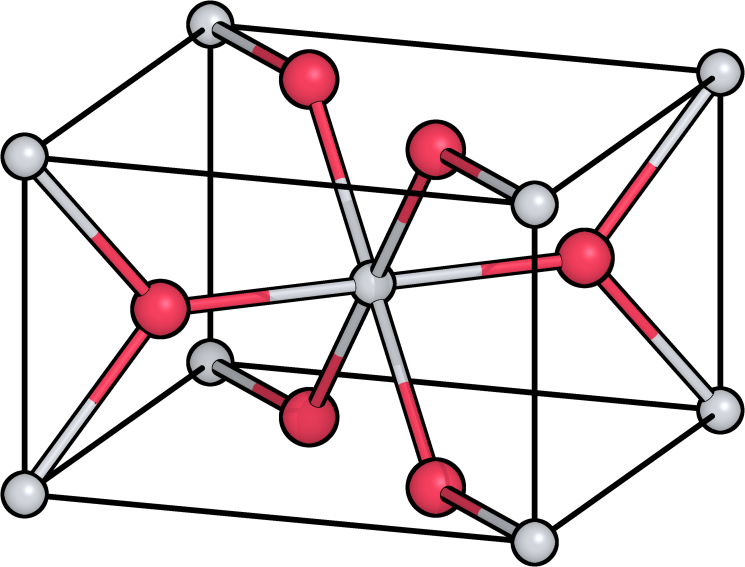
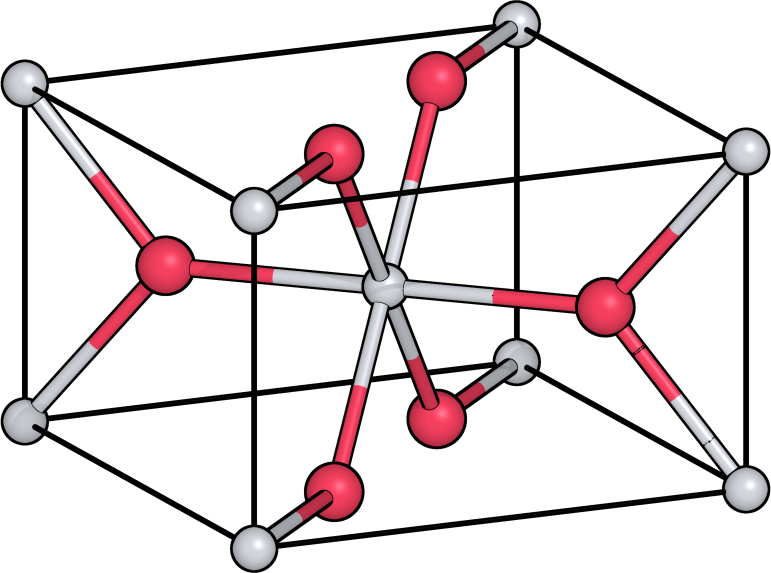
molecules atualizado

diff --git a/braunmol/show/cell.py b/braunmol/show/cell.py
@@ -6,19 +6,19 @@ Gabriel Braun, 2026
 
 import tempfile
 from dataclasses import dataclass
-from itertools import combinations
+from itertools import combinations, product
 from pathlib import Path
 
 import numpy as np
 from pymatgen.analysis.bond_valence import BVAnalyzer
-from pymatgen.analysis.local_env import (
-    CrystalNN,
-    MinimumVIRENN,
-    ValenceIonicRadiusEvaluator,
-)
-from pymatgen.core.periodic_table import Element
+from pymatgen.analysis.graphs import StructureGraph
+from pymatgen.analysis.local_env import CrystalNN, MinimumVIRENN
 from pymatgen.core.structure import Molecule, Structure
 from pymol import cgo, cmd
+
+# =============================================================================
+# Registry (lattice + repeats)
+# =============================================================================
 
 
 @dataclass(slots=True)
@@ -43,9 +43,6 @@ class CellRegistry:
 
 
 def _cell_registry(_self) -> CellRegistry:
-    """
-    Singleton associado ao objeto cmd do PyMOL.
-    """
     reg = getattr(_self, "_cell_registry", None)
     if reg is None:
         reg = CellRegistry()
@@ -53,36 +50,9 @@ def _cell_registry(_self) -> CellRegistry:
     return reg
 
 
-def get_pb_frac_coords(frac_coords):
-    """
-    Retorna: coords fracionais no range [0,1] a partir de coords no range [0,1).
-    """
-    yield frac_coords
-
-    zero_indices = np.where(np.isclose(frac_coords, 0))[0]
-
-    for r in range(1, len(zero_indices) + 1):
-        for indices_to_flip in combinations(zero_indices, r):
-            pb_frac_coords = frac_coords.copy()
-            pb_frac_coords[list(indices_to_flip)] = 1
-            yield pb_frac_coords
-
-
-def structure_to_molecule(structure, repeats):
-    """
-    Retorna: "molécula" contendo os átomos de uma supercélula.
-    """
-    molecule = Molecule([], [])
-
-    for site in structure.make_supercell(repeats).sites:
-        for frac_coords in get_pb_frac_coords(site.frac_coords):
-            coords = structure.lattice.get_cartesian_coords(frac_coords)
-            if hasattr(molecule, "specie"):
-                molecule.append(site.specie, coords)
-            elif hasattr(molecule, "species"):
-                molecule.append(site.species, coords)
-
-    return molecule
+# =============================================================================
+# PyMOL: load_cell
+# =============================================================================
 
 
 @cmd.extend
@@ -94,54 +64,177 @@ def load_cell(
     **kwargs,
 ):
     """
-    Carrega: célula unitária (na forma de molécula) a partir de um arquivo '.cif'.
-
     >>> PyMOL> load_cell file_path [, mol_obj [, reps ]]
     """
     mol_obj = mol_obj or Path(file_path).stem
-
     repeats = np.fromstring(reps, sep="-", count=3, dtype=int)
+
     structure = Structure.from_file(file_path, check_cif=False)
 
-    # salva parâmetros relevantes para uso posterior
     reg = _cell_registry(_self)
     reg.new(mol_obj, structure.lattice, repeats)
 
-    # calcula as cargas, cria a supercélula e converte em molécula
-    structure = BVAnalyzer().get_oxi_state_decorated_structure(structure)
-    molecule = structure_to_molecule(structure, repeats)
+    # oxi-states (ajuda CrystalNN em iônico/misto)
+    try:
+        structure = BVAnalyzer().get_oxi_state_decorated_structure(structure)
+    except Exception:
+        pass
 
-    # cria um arquivo temporário e carrega no PyMOL
+    # supercélula periódica correta
+    sc = structure.copy()
+    sc.make_supercell(repeats)
+
+    # estratégia NN
+    nn = CrystalNN()
+    try:
+        nn.get_nn_info(sc, 0)
+    except Exception:
+        nn = MinimumVIRENN()
+
+    # grafo de ligações (pymatgen pronto)
+    sg = StructureGraph.with_local_env_strategy(sc, nn)
+    n = len(sc)
+
+    # ------------------------------------------------------------
+    # PB images: gera tuplas (0/1) para coordenadas ~0
+    # ------------------------------------------------------------
+    def pb_images(frac_coords: np.ndarray):
+        zeros = np.flatnonzero(np.isclose(frac_coords, 0.0))
+        if len(zeros) == 0:
+            yield (0, 0, 0)
+            return
+        for mask in product((0, 1), repeat=len(zeros)):
+            img = np.zeros(3, dtype=int)
+            img[zeros] = mask
+            yield (int(img[0]), int(img[1]), int(img[2]))
+
+    # ------------------------------------------------------------
+    # Normaliza uma ligação periódica (i -> j com jimage possivelmente negativa)
+    # para uma representação equivalente só com imagens não-negativas (0/1)
+    #
+    # shift = max(-jimage, 0)
+    # i@(shift) -- j@(jimage + shift)
+    # ------------------------------------------------------------
+    def normalize_image(jimage):
+        jx, jy, jz = (int(x) for x in jimage)
+        sx = -jx if jx < 0 else 0
+        sy = -jy if jy < 0 else 0
+        sz = -jz if jz < 0 else 0
+        return (sx, sy, sz), (jx + sx, jy + sy, jz + sz)
+
+    # ------------------------------------------------------------
+    # 1) arestas base (únicas / não-direcionadas) usando o grafo
+    #    key = (i,img_i0,j,img_j0) já normalizado p/ imagens >=0
+    # ------------------------------------------------------------
+    base_edges = set()
+    for i in range(n):
+        for cs in sg.get_connected_sites(i):
+            j = int(cs.index)
+            img_i0, img_j0 = normalize_image(cs.jimage)
+            a = (i, img_i0)
+            b = (j, img_j0)
+            if a <= b:
+                base_edges.add((i, img_i0, j, img_j0))
+            else:
+                base_edges.add((j, img_j0, i, img_i0))
+
+    # ------------------------------------------------------------
+    # 2) imagens existentes por site:
+    #    - sempre (0,0,0)
+    #    - PB images
+    #    - imagens mínimas exigidas pelas ligações base
+    # ------------------------------------------------------------
+    images = [set([(0, 0, 0)]) for _ in range(n)]
+
+    for i, site in enumerate(sc.sites):
+        images[i].update(pb_images(site.frac_coords))
+
+    for i, img_i0, j, img_j0 in base_edges:
+        images[i].add(img_i0)
+        images[j].add(img_j0)
+
+    # ------------------------------------------------------------
+    # 3) Molecule + idx_map (site, image) -> índice PyMOL (1-based)
+    # ------------------------------------------------------------
+    lattice = sc.lattice
+    species_list = []
+    coords_list = []
+    idx_map = {}
+
+    for i, site in enumerate(sc.sites):
+        specie = site.specie if hasattr(site, "specie") else site.species
+        f0 = site.frac_coords
+        for img in sorted(images[i]):
+            coords = lattice.get_cartesian_coords(f0 + np.array(img, dtype=float))
+            species_list.append(specie)
+            coords_list.append(coords)
+            idx_map[(i, img)] = len(species_list)
+
+    molecule = Molecule(species_list, coords_list)
+
+    # ------------------------------------------------------------
+    # 4) carrega no PyMOL
+    # ------------------------------------------------------------
+    try:
+        _self.delete(mol_obj)
+    except Exception:
+        pass
+
     tmp = tempfile.NamedTemporaryFile(suffix=".mol")
     molecule.to(tmp.name)
     _self.load(tmp.name, mol_obj, **kwargs)
     tmp.close()
 
-    # ajusta os raios iônicos e cargas formais
-    for i, specie in enumerate(molecule.species, 1):
+    # vdw + formal_charge (quando disponíveis)
+    for k, specie in enumerate(molecule.species, 1):
         try:
             ionic_radius = max(float(specie.ionic_radius), 1.0)
             _self.alter(
-                f"{mol_obj} and index {i}",
+                f"{mol_obj} and index {k}",
                 f"vdw={ionic_radius}; formal_charge={int(specie.oxi_state)}",
             )
         except Exception:
             continue
 
-    # ajusta as ligações
+    # ------------------------------------------------------------
+    # 5) bonds: replica as ligações base para todas as PB images
+    # ------------------------------------------------------------
     _self.unbond(mol_obj, mol_obj)
-    for (i, si), (j, sj) in combinations(enumerate(molecule.sites, 1), 2):
-        if int(si.specie.oxi_state) * int(sj.specie.oxi_state) > 0:
-            continue
 
-        try:
-            cutoff = si.specie.ionic_radius + sj.specie.ionic_radius
-            if si.distance(sj) < cutoff:
-                _self.bond(f"{mol_obj} and index {i}", f"{mol_obj} and index {j}")
-        except:
-            continue
+    bond = _self.bond
+    idx_get = idx_map.get
+    seen = set()
+
+    for i, img_i0, j, img_j0 in base_edges:
+        # replica a ligação para todas as imagens do átomo i
+        for img_i in images[i]:
+            tx = img_i[0] - img_i0[0]
+            ty = img_i[1] - img_i0[1]
+            tz = img_i[2] - img_i0[2]
+            img_j = (img_j0[0] + tx, img_j0[1] + ty, img_j0[2] + tz)
+
+            if img_j not in images[j]:
+                continue
+
+            a = idx_get((i, img_i))
+            b = idx_get((j, img_j))
+            if a is None or b is None or a == b:
+                continue
+
+            if a > b:
+                a, b = b, a
+            if (a, b) in seen:
+                continue
+            seen.add((a, b))
+
+            bond(f"{mol_obj} and index {a}", f"{mol_obj} and index {b}")
 
     _self.rebuild(mol_obj)
+
+
+# =============================================================================
+# PyMOL: add_cell
+# =============================================================================
 
 
 @cmd.extend
@@ -153,14 +246,11 @@ def add_cell(
     _self=cmd,
 ):
     """
-    Adiciona: estrutura da célula.
-
     >>> PyMOL> add_cell [ mol_obj [, cll_obj [, color [, linewidth ]]]]
     """
     mol_obj = mol_obj or _self.get_object_list()[0]
     cll_obj = cll_obj or f"{mol_obj}_cell"
 
-    # recupera os parâmetros da rede
     reg = _cell_registry(_self)
     cell_info = reg.get(mol_obj)
     lattice = cell_info.lattice

diff --git a/graphics/molecules/vsepr/PF5/PF5.tex b/graphics/molecules/vsepr/PF5/PF5.tex
@@ -1,0 +1,31 @@
+\begin{tikzpicture}[xscale=\molscale,yscale=\molscale]
+%% coordinates
+\coordinate (A3) at (-0.424,0.251);
+\coordinate (A4) at (0.000,-0.825);
+\coordinate (A6) at (0.875,0.000);
+\coordinate (A1) at (0.000,-0.000);
+\coordinate (A2) at (0.000,0.848);
+\coordinate (A5) at (-0.451,-0.267);
+
+%% nodes
+\node (A3) [ball={vdw=0.159,color=tw-cyan-400}] at (A3) {};
+%% bonds
+\bond[0.117cm]{A1}[0.092cm]{A3};
+%% nodes
+\node (A4) [ball={vdw=0.162,color=tw-cyan-400}] at (A4) {};
+%% bonds
+\bond[0.188cm]{A1}[0.152cm]{A4};
+%% nodes
+\node (A6) [ball={vdw=0.164,color=tw-cyan-400}] at (A6) {};
+\node (A1) [ball={vdw=0.201,color=tw-orange-400}] at (A1) {};
+%% bonds
+\bond[0.201cm]{A1}[0.164cm]{A6};
+\bond[0.188cm]{A1}[0.156cm]{A2};
+\bond[0.117cm]{A1}[0.098cm]{A5};
+%% nodes
+\node (A2) [ball={vdw=0.166,color=tw-cyan-400}] at (A2) {};
+%% bonds
+%% nodes
+\node (A5) [ball={vdw=0.169,color=tw-cyan-400}] at (A5) {};
+%% bonds
+\end{tikzpicture}

diff --git a/graphics/molecules/vsepr/CH4/CH4.tex b/graphics/molecules/vsepr/CH4/CH4.tex
@@ -1,0 +1,26 @@
+\begin{tikzpicture}[xscale=\molscale,yscale=\molscale]
+%% coordinates
+\coordinate (A3) at (0.484,-0.090);
+\coordinate (A5) at (-0.484,-0.090);
+\coordinate (A2) at (0.000,-0.000);
+\coordinate (A4) at (0.000,0.571);
+\coordinate (A1) at (0.000,-0.391);
+
+%% nodes
+\node (A3) [ball={vdw=0.131,color=tw-gray-300}] at (A3) {};
+\node (A5) [ball={vdw=0.131,color=tw-gray-300}] at (A5) {};
+%% bonds
+\bond[0.157cm]{A2}[0.109cm]{A3};
+\bond[0.157cm]{A2}[0.109cm]{A5};
+%% nodes
+\node (A2) [ball={vdw=0.189,color=carbon}] at (A2) {};
+%% bonds
+\bond[0.087cm]{A1}[0.120cm]{A2};
+\bond[0.178cm]{A2}[0.126cm]{A4};
+%% nodes
+\node (A4) [ball={vdw=0.135,color=tw-gray-300}] at (A4) {};
+%% bonds
+%% nodes
+\node (A1) [ball={vdw=0.136,color=tw-gray-300}] at (A1) {};
+%% bonds
+\end{tikzpicture}
